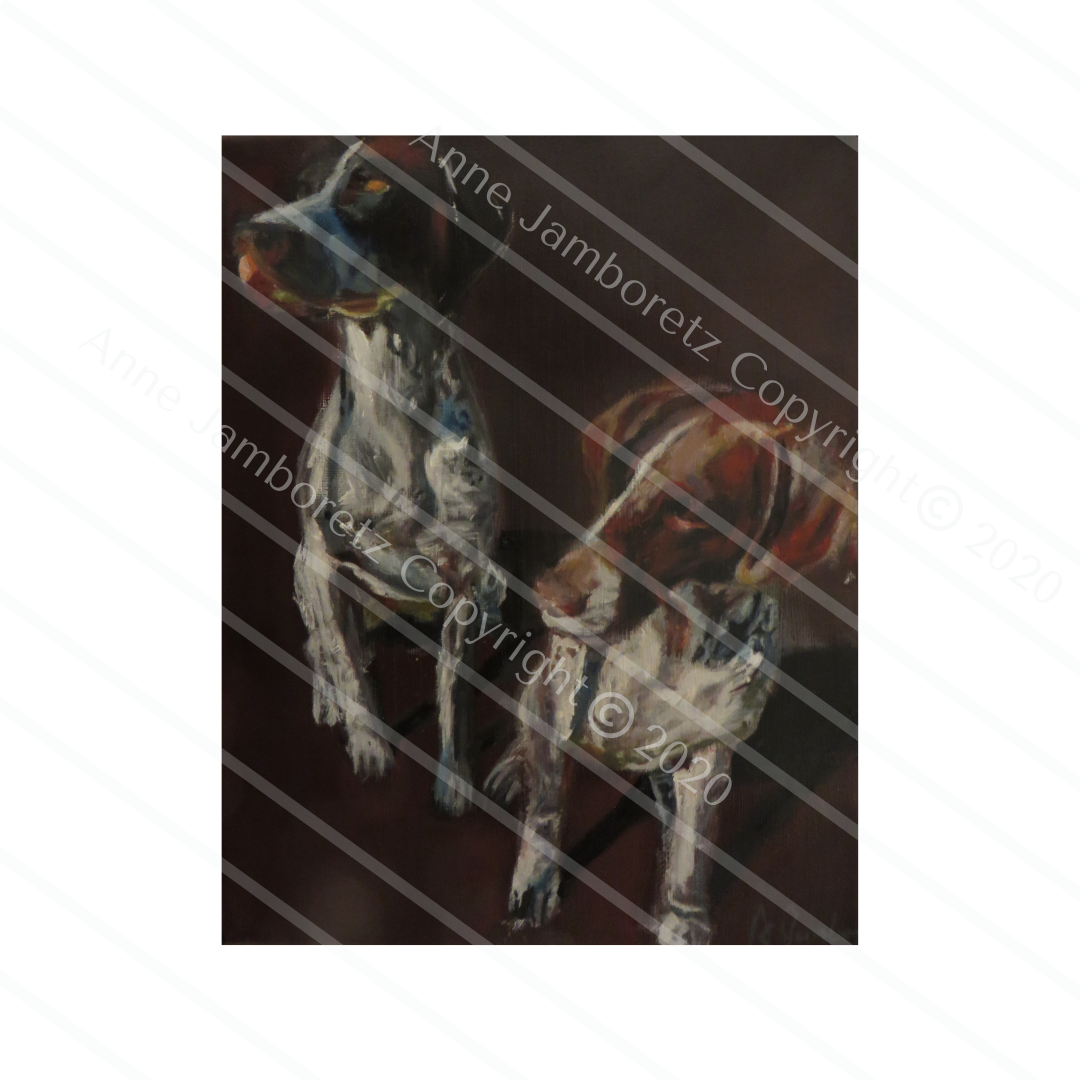
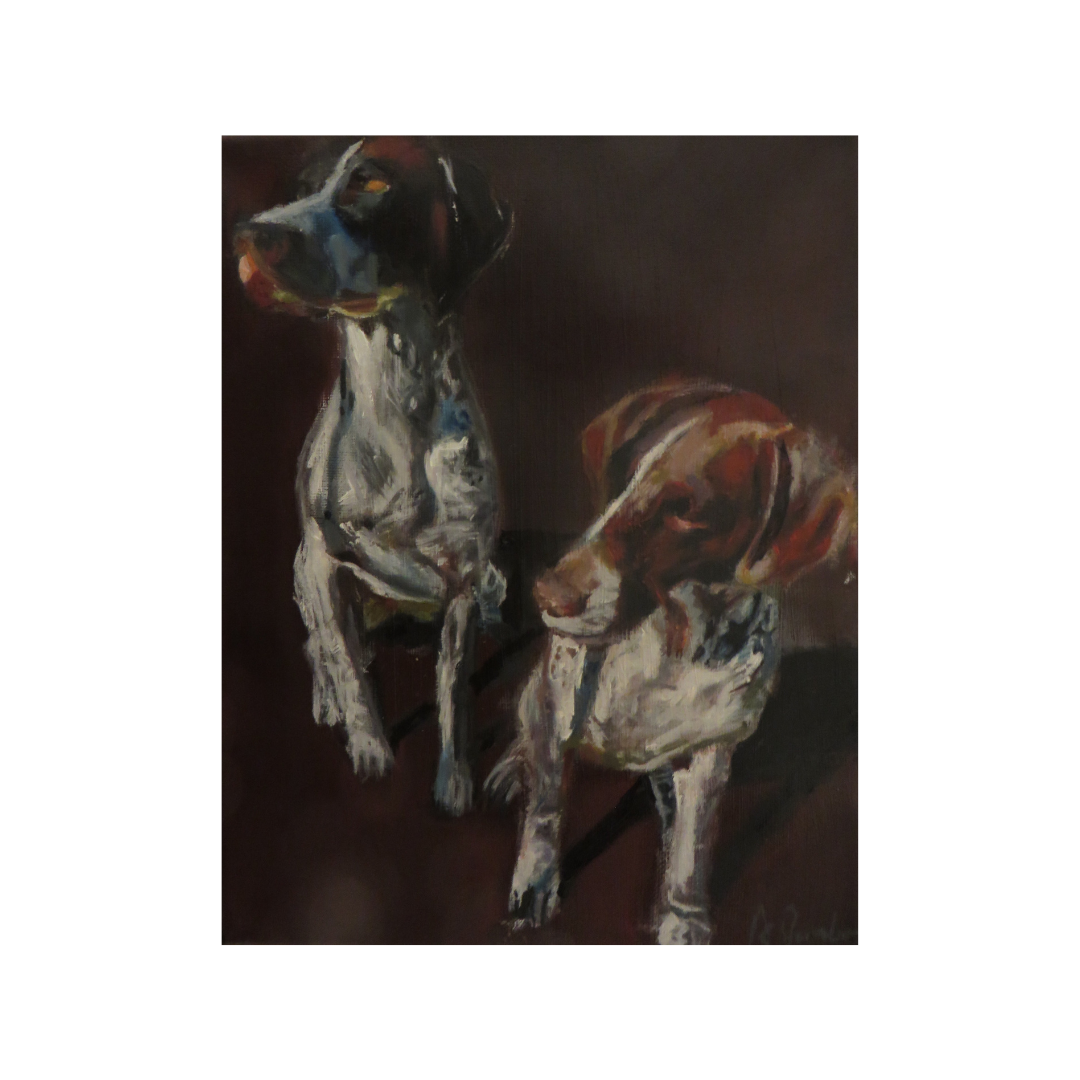
add images without watermarks and remove please from contact page

diff --git a/src/components/pages/Contact.js b/src/components/pages/Contact.js
@@ -20,7 +20,7 @@ export default class Contact extends Component {
                 <p className="description">< GiBeveledStar /></p>
                 <br></br>
                 <p className="description">
-                    To inquire about custom pieces or prints, or display art at your business, please email anne.jamboretz@gmail.com.
+                    To inquire about custom pieces or prints, or display art at your business, email anne.jamboretz@gmail.com.
                 </p>
                 <br></br>
                 <p className="description">< GiBeveledStar /></p>
